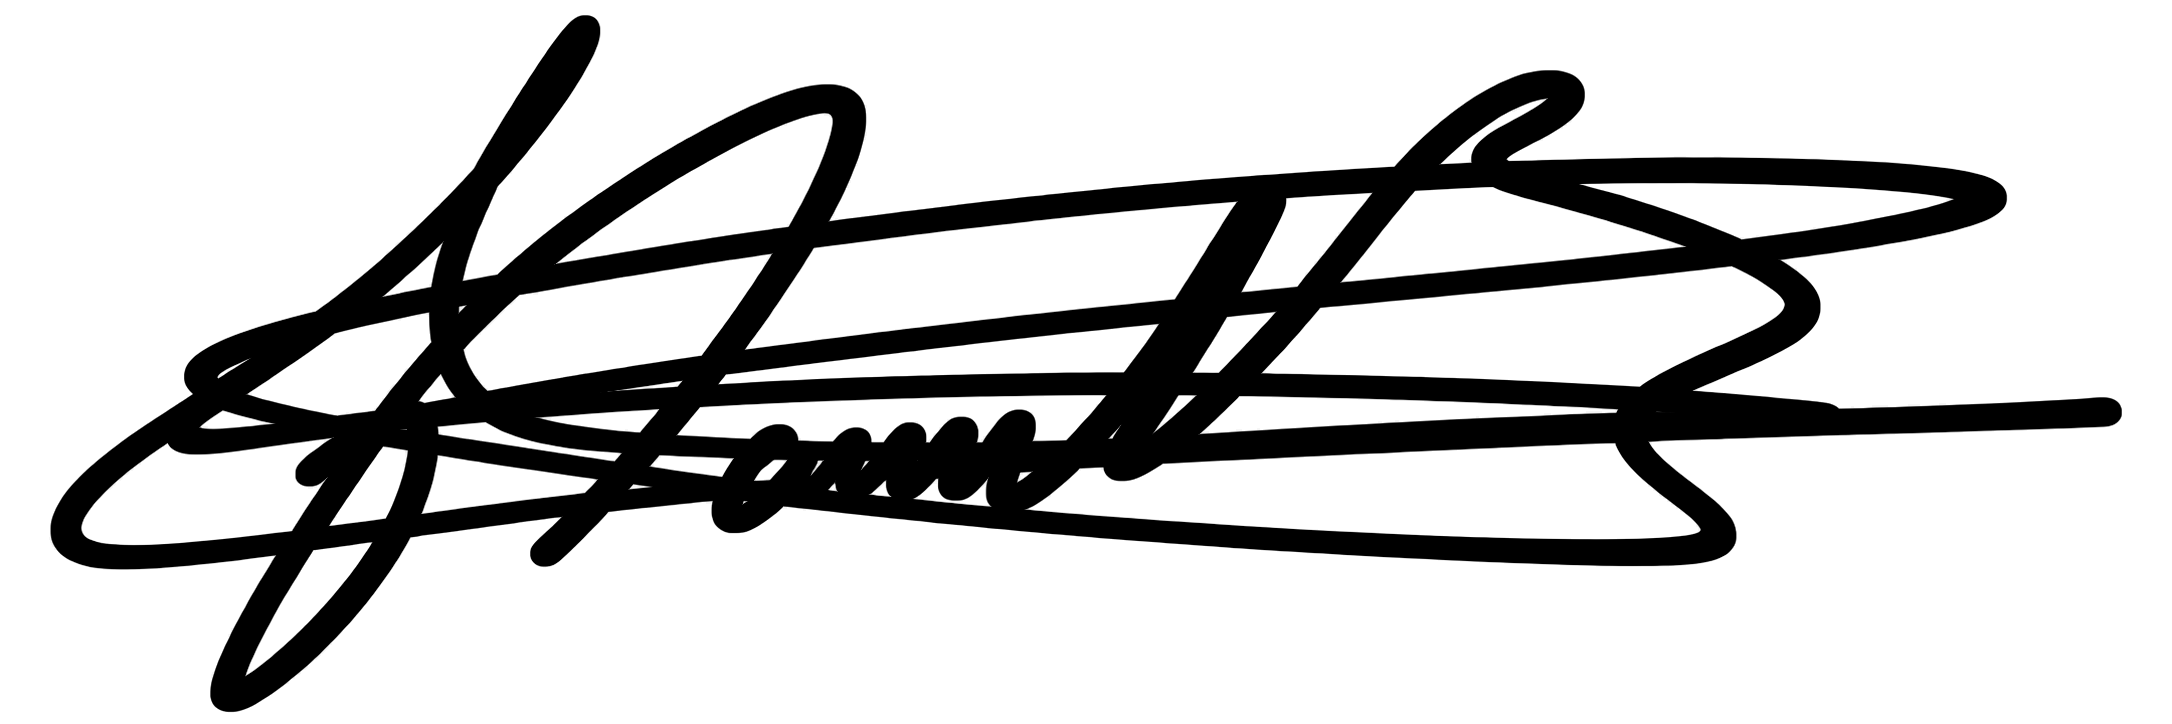
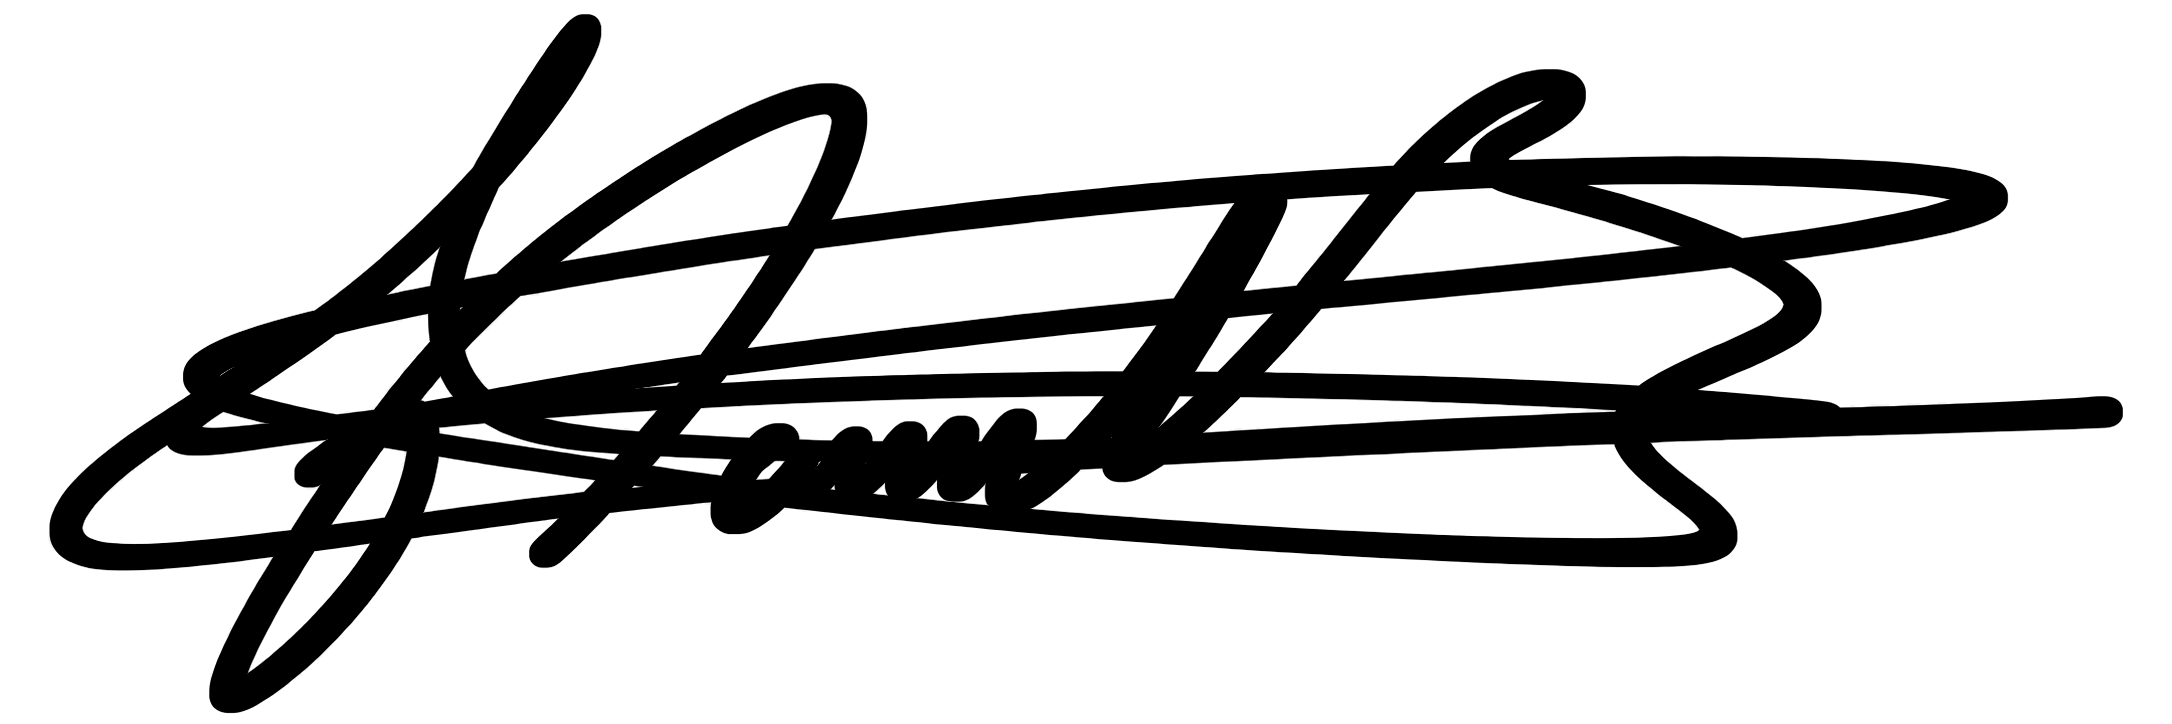
fix(certificados): adaptar nombres largos y grosor de firmas

diff --git a/src/app/admin/eventos/[id]/certificados-preimpresion/page.tsx b/src/app/admin/eventos/[id]/certificados-preimpresion/page.tsx
@@ -51,6 +51,13 @@ function splitName(fullName: string): [string, string] {
   return [normalized.slice(0, splitAt), normalized.slice(splitAt + 1)];
 }
 
+function nameClass(fullName: string): string {
+  const length = fullName.trim().replace(/\s+/g, " ").length;
+  if (length >= 24) return "name compact";
+  if (length >= 18) return "name reduced";
+  return "name";
+}
+
 function formatDateShort(iso: string): string {
   const date = new Date(iso);
   const months = ["ENE", "FEB", "MAR", "ABR", "MAY", "JUN", "JUL", "AGO", "SEP", "OCT", "NOV", "DIC"];
@@ -121,7 +128,7 @@ function PreprintSheet({
         <div className="course-info"><div className="label">PROGRAMA</div><div className="title">{titleWithBreak(eventTitle)}</div><div className="meta">{formatDateLong(startsAt)} · {formatTime(startsAt)} hrs · {formatDuration(startsAt, endsAt)}</div></div>
         <div className="right">
           <div className="eyebrow-row"><div className="label">QLICK CERTIFIED · CONSTANCIA</div><div className="folio">PREIMPRESIÓN<div className="num">{preprintFolio}</div></div></div>
-          <div className="hero"><div className="small">Constancia preparada · {formatDateLong(new Date().toISOString())}</div><div className="presented-to">Se otorga la presente a</div><div className="name"><span className="word">{plainName}</span><span className="word accent">{accentName}</span></div><div className="deco-line"><svg viewBox="0 0 20 20"><path d="M10 0l1.5 8.5L20 10l-8.5 1.5L10 20l-1.5-8.5L0 10l8.5-1.5z" fill="currentColor" /></svg></div><div className="reason">por su participación y registro en el programa de formación de Qlick Marketing Digital.</div></div>
+          <div className="hero"><div className="small">Constancia preparada · {formatDateLong(new Date().toISOString())}</div><div className="presented-to">Se otorga la presente a</div><div className={nameClass(name)}><span className="word">{plainName}</span><span className="word accent">{accentName}</span></div><div className="deco-line"><svg viewBox="0 0 20 20"><path d="M10 0l1.5 8.5L20 10l-8.5 1.5L10 20l-1.5-8.5L0 10l8.5-1.5z" fill="currentColor" /></svg></div><div className="reason">por su participación y registro en el programa de formación de Qlick Marketing Digital.</div></div>
           <div className="bottom"><div className={`sig-block${signatories.length > 1 ? " multiple" : ""}`}>{signatories.map((signatory) => <div className="signatory" key={signatory.name}><div className="signature"><img src={`/certificates/${signatory.assetFilename}`} alt={`Firma de ${signatory.name}`} /></div><div className="name" title={signatory.name}>{signatory.name}</div><div className="role">{signatory.title}</div></div>)}</div><div className="verify-block"><div className="label">Escanea</div><div className="qr"><img src={qrDataUrl} alt="QR de Qlick" /></div><div className="date">Preimpresión · {formatDateShort(new Date().toISOString())}</div></div></div>
         </div>
         <svg className="sparkle s1" width="22" height="22" viewBox="0 0 20 20"><path d="M10 0l1.5 8.5L20 10l-8.5 1.5L10 20l-1.5-8.5L0 10l8.5-1.5z" fill="#FBBF24" /></svg><svg className="sparkle s2" width="14" height="14" viewBox="0 0 20 20"><path d="M10 0l1.5 8.5L20 10l-8.5 1.5L10 20l-1.5-8.5L0 10l8.5-1.5z" fill="#A855F7" /></svg>

diff --git a/src/lib/certificates/render-certificate.tsx b/src/lib/certificates/render-certificate.tsx
@@ -369,6 +369,13 @@ function firstWordAndRest(name: string): { first: string; rest: string } {
   };
 }
 
+function getHeroNameStyle(name: string): { fontSize?: number; letterSpacing?: number } {
+  const length = name.trim().replace(/\s+/g, " ").length;
+  if (length >= 24) return { fontSize: 42, letterSpacing: -1 };
+  if (length >= 18) return { fontSize: 48, letterSpacing: -1.5 };
+  return {};
+}
+
 // ---------------------------------------------------------------------------
 // Componente principal
 // ---------------------------------------------------------------------------
@@ -473,7 +480,7 @@ export function CertificatePDF({ data }: { data: CertificateData }) {
             <Text style={styles.heroPresentedTo}>
               Presentado a
             </Text>
-            <Text style={styles.heroName}>
+            <Text style={[styles.heroName, getHeroNameStyle(data.attendeeName)]}>
               <Text style={styles.heroNameAccent}>{firstWord}</Text>
               {nameRest ? " " : ""}
               <Text style={styles.heroNameRest}>{nameRest}</Text>

diff --git a/src/app/cert/[folio]/page.tsx b/src/app/cert/[folio]/page.tsx
@@ -148,6 +148,13 @@ function splitName(fullName: string): [string, string] {
   return [trimmed.slice(0, sp), trimmed.slice(sp + 1)];
 }
 
+function nameClass(fullName: string): string {
+  const length = fullName.trim().replace(/\s+/g, " ").length;
+  if (length >= 24) return "name compact";
+  if (length >= 18) return "name reduced";
+  return "name";
+}
+
 export default async function CertPage({ params }: CertPageProps) {
   const folio = params.folio?.trim();
   if (!folio) return notFound();
@@ -375,7 +382,7 @@ export default async function CertPage({ params }: CertPageProps) {
             <div className="hero">
               <div className="small">Certificado Oficial · {certData.issueDateLong}</div>
               <div className="presented-to">Se otorga la presente a</div>
-              <div className="name">
+              <div className={nameClass(certData.attendeeName)}>
                 <span className="word">{certData.attendeeNamePlain}</span>
                 <span className="word accent">{certData.attendeeNameAccent}</span>
               </div>

diff --git a/src/app/cert/[folio]/cert.css b/src/app/cert/[folio]/cert.css
@@ -254,6 +254,14 @@ html, body {
   color: var(--ink);
   margin-top: 14px;
 }
+.hero .name.reduced {
+  font-size: 64px;
+  letter-spacing: -2.5px;
+}
+.hero .name.compact {
+  font-size: 52px;
+  letter-spacing: -1.5px;
+}
 .hero .name .word { display: block; }
 .hero .name .accent {
   background: linear-gradient(135deg, var(--purple-700) 0%, var(--purple-500) 100%);
